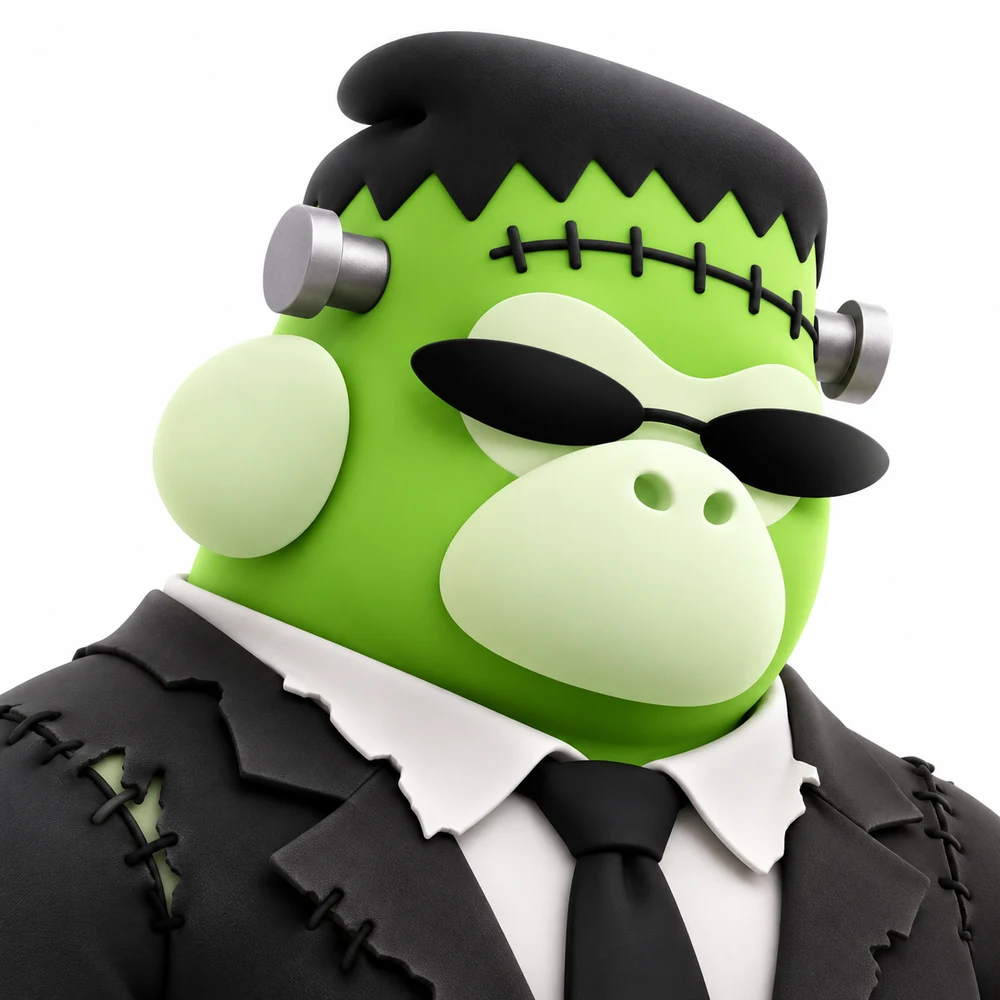
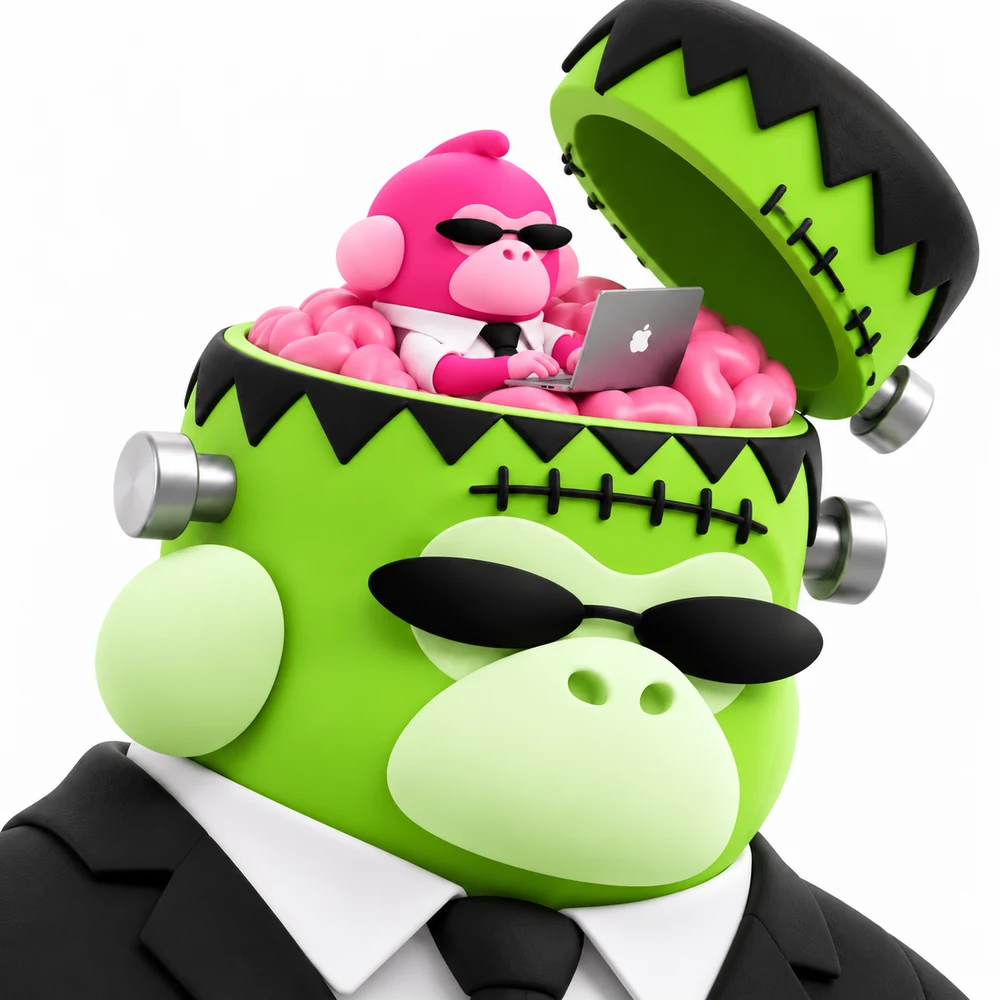
Frankenstein: new mascot image, remove tint
Claude-Session: https://claude.ai/code/session_011twCvYJ4NH4k7nHz3phw9g

diff --git a/dist/af/index.html b/dist/af/index.html
@@ -27,7 +27,7 @@
   --img-c-build:url(/assets/c-build.webp?v=ac599c71);
   --img-c-booking:url(/assets/c-booking.webp?v=c02704ef);
   --img-c-seo:url(/assets/c-seo.webp?v=a87c5bff);
-  --img-c-frank:url(/assets/c-frank.webp?v=5af98d67);
+  --img-c-frank:url(/assets/c-frank.webp?v=35705922);
   --img-roborab:url(/assets/roborab.webp?v=c179bf15);
   --img-sofa:url(/assets/sofa.webp?v=66794370);
   --img-appicon:url(/assets/appicon.webp?v=915b7f70);
@@ -269,7 +269,7 @@ html:not([lang=ru]) .word{aspect-ratio:1001 / 512;background-image:var(--img-rob
 #build{--acc:#fcc118;--accfg:#fff;--mimg:var(--img-c-build)}
 #booking{--acc:#393939;--accfg:#fff;--mimg:var(--img-c-booking)}
 #seo{--acc:#fa3c8a;--accfg:#fff;--mimg:var(--img-c-seo)}
-#frank{--acc:#7cc62b;--accfg:#fff;--mimg:var(--img-c-frank);background:#eaf6da}
+#frank{--acc:#7cc62b;--accfg:#fff;--mimg:var(--img-c-frank)}
 
 .faq{margin:var(--S) auto 0;padding:0 max(var(--m),env(safe-area-inset-left,0px));max-width:1760px}
 .faq h2{margin:0;text-align:center;font:800 clamp(30px,4.6vw,72px)/1 var(--f-display);letter-spacing:-.035em;text-wrap:balance}

diff --git a/dist/ar/index.html b/dist/ar/index.html
@@ -27,7 +27,7 @@
   --img-c-build:url(/assets/c-build.webp?v=ac599c71);
   --img-c-booking:url(/assets/c-booking.webp?v=c02704ef);
   --img-c-seo:url(/assets/c-seo.webp?v=a87c5bff);
-  --img-c-frank:url(/assets/c-frank.webp?v=5af98d67);
+  --img-c-frank:url(/assets/c-frank.webp?v=35705922);
   --img-roborab:url(/assets/roborab.webp?v=c179bf15);
   --img-sofa:url(/assets/sofa.webp?v=66794370);
   --img-appicon:url(/assets/appicon.webp?v=915b7f70);
@@ -269,7 +269,7 @@ html:not([lang=ru]) .word{aspect-ratio:1001 / 512;background-image:var(--img-rob
 #build{--acc:#fcc118;--accfg:#fff;--mimg:var(--img-c-build)}
 #booking{--acc:#393939;--accfg:#fff;--mimg:var(--img-c-booking)}
 #seo{--acc:#fa3c8a;--accfg:#fff;--mimg:var(--img-c-seo)}
-#frank{--acc:#7cc62b;--accfg:#fff;--mimg:var(--img-c-frank);background:#eaf6da}
+#frank{--acc:#7cc62b;--accfg:#fff;--mimg:var(--img-c-frank)}
 
 .faq{margin:var(--S) auto 0;padding:0 max(var(--m),env(safe-area-inset-left,0px));max-width:1760px}
 .faq h2{margin:0;text-align:center;font:800 clamp(30px,4.6vw,72px)/1 var(--f-display);letter-spacing:-.035em;text-wrap:balance}

diff --git a/dist/az/index.html b/dist/az/index.html
@@ -27,7 +27,7 @@
   --img-c-build:url(/assets/c-build.webp?v=ac599c71);
   --img-c-booking:url(/assets/c-booking.webp?v=c02704ef);
   --img-c-seo:url(/assets/c-seo.webp?v=a87c5bff);
-  --img-c-frank:url(/assets/c-frank.webp?v=5af98d67);
+  --img-c-frank:url(/assets/c-frank.webp?v=35705922);
   --img-roborab:url(/assets/roborab.webp?v=c179bf15);
   --img-sofa:url(/assets/sofa.webp?v=66794370);
   --img-appicon:url(/assets/appicon.webp?v=915b7f70);
@@ -269,7 +269,7 @@ html:not([lang=ru]) .word{aspect-ratio:1001 / 512;background-image:var(--img-rob
 #build{--acc:#fcc118;--accfg:#fff;--mimg:var(--img-c-build)}
 #booking{--acc:#393939;--accfg:#fff;--mimg:var(--img-c-booking)}
 #seo{--acc:#fa3c8a;--accfg:#fff;--mimg:var(--img-c-seo)}
-#frank{--acc:#7cc62b;--accfg:#fff;--mimg:var(--img-c-frank);background:#eaf6da}
+#frank{--acc:#7cc62b;--accfg:#fff;--mimg:var(--img-c-frank)}
 
 .faq{margin:var(--S) auto 0;padding:0 max(var(--m),env(safe-area-inset-left,0px));max-width:1760px}
 .faq h2{margin:0;text-align:center;font:800 clamp(30px,4.6vw,72px)/1 var(--f-display);letter-spacing:-.035em;text-wrap:balance}

diff --git a/dist/be/index.html b/dist/be/index.html
@@ -27,7 +27,7 @@
   --img-c-build:url(/assets/c-build.webp?v=ac599c71);
   --img-c-booking:url(/assets/c-booking.webp?v=c02704ef);
   --img-c-seo:url(/assets/c-seo.webp?v=a87c5bff);
-  --img-c-frank:url(/assets/c-frank.webp?v=5af98d67);
+  --img-c-frank:url(/assets/c-frank.webp?v=35705922);
   --img-roborab:url(/assets/roborab.webp?v=c179bf15);
   --img-sofa:url(/assets/sofa.webp?v=66794370);
   --img-appicon:url(/assets/appicon.webp?v=915b7f70);
@@ -269,7 +269,7 @@ html:not([lang=ru]) .word{aspect-ratio:1001 / 512;background-image:var(--img-rob
 #build{--acc:#fcc118;--accfg:#fff;--mimg:var(--img-c-build)}
 #booking{--acc:#393939;--accfg:#fff;--mimg:var(--img-c-booking)}
 #seo{--acc:#fa3c8a;--accfg:#fff;--mimg:var(--img-c-seo)}
-#frank{--acc:#7cc62b;--accfg:#fff;--mimg:var(--img-c-frank);background:#eaf6da}
+#frank{--acc:#7cc62b;--accfg:#fff;--mimg:var(--img-c-frank)}
 
 .faq{margin:var(--S) auto 0;padding:0 max(var(--m),env(safe-area-inset-left,0px));max-width:1760px}
 .faq h2{margin:0;text-align:center;font:800 clamp(30px,4.6vw,72px)/1 var(--f-display);letter-spacing:-.035em;text-wrap:balance}

diff --git a/dist/bg/index.html b/dist/bg/index.html
@@ -27,7 +27,7 @@
   --img-c-build:url(/assets/c-build.webp?v=ac599c71);
   --img-c-booking:url(/assets/c-booking.webp?v=c02704ef);
   --img-c-seo:url(/assets/c-seo.webp?v=a87c5bff);
-  --img-c-frank:url(/assets/c-frank.webp?v=5af98d67);
+  --img-c-frank:url(/assets/c-frank.webp?v=35705922);
   --img-roborab:url(/assets/roborab.webp?v=c179bf15);
   --img-sofa:url(/assets/sofa.webp?v=66794370);
   --img-appicon:url(/assets/appicon.webp?v=915b7f70);
@@ -269,7 +269,7 @@ html:not([lang=ru]) .word{aspect-ratio:1001 / 512;background-image:var(--img-rob
 #build{--acc:#fcc118;--accfg:#fff;--mimg:var(--img-c-build)}
 #booking{--acc:#393939;--accfg:#fff;--mimg:var(--img-c-booking)}
 #seo{--acc:#fa3c8a;--accfg:#fff;--mimg:var(--img-c-seo)}
-#frank{--acc:#7cc62b;--accfg:#fff;--mimg:var(--img-c-frank);background:#eaf6da}
+#frank{--acc:#7cc62b;--accfg:#fff;--mimg:var(--img-c-frank)}
 
 .faq{margin:var(--S) auto 0;padding:0 max(var(--m),env(safe-area-inset-left,0px));max-width:1760px}
 .faq h2{margin:0;text-align:center;font:800 clamp(30px,4.6vw,72px)/1 var(--f-display);letter-spacing:-.035em;text-wrap:balance}

diff --git a/dist/bn/index.html b/dist/bn/index.html
@@ -27,7 +27,7 @@
   --img-c-build:url(/assets/c-build.webp?v=ac599c71);
   --img-c-booking:url(/assets/c-booking.webp?v=c02704ef);
   --img-c-seo:url(/assets/c-seo.webp?v=a87c5bff);
-  --img-c-frank:url(/assets/c-frank.webp?v=5af98d67);
+  --img-c-frank:url(/assets/c-frank.webp?v=35705922);
   --img-roborab:url(/assets/roborab.webp?v=c179bf15);
   --img-sofa:url(/assets/sofa.webp?v=66794370);
   --img-appicon:url(/assets/appicon.webp?v=915b7f70);
@@ -269,7 +269,7 @@ html:not([lang=ru]) .word{aspect-ratio:1001 / 512;background-image:var(--img-rob
 #build{--acc:#fcc118;--accfg:#fff;--mimg:var(--img-c-build)}
 #booking{--acc:#393939;--accfg:#fff;--mimg:var(--img-c-booking)}
 #seo{--acc:#fa3c8a;--accfg:#fff;--mimg:var(--img-c-seo)}
-#frank{--acc:#7cc62b;--accfg:#fff;--mimg:var(--img-c-frank);background:#eaf6da}
+#frank{--acc:#7cc62b;--accfg:#fff;--mimg:var(--img-c-frank)}
 
 .faq{margin:var(--S) auto 0;padding:0 max(var(--m),env(safe-area-inset-left,0px));max-width:1760px}
 .faq h2{margin:0;text-align:center;font:800 clamp(30px,4.6vw,72px)/1 var(--f-display);letter-spacing:-.035em;text-wrap:balance}

diff --git a/dist/ca/index.html b/dist/ca/index.html
@@ -27,7 +27,7 @@
   --img-c-build:url(/assets/c-build.webp?v=ac599c71);
   --img-c-booking:url(/assets/c-booking.webp?v=c02704ef);
   --img-c-seo:url(/assets/c-seo.webp?v=a87c5bff);
-  --img-c-frank:url(/assets/c-frank.webp?v=5af98d67);
+  --img-c-frank:url(/assets/c-frank.webp?v=35705922);
   --img-roborab:url(/assets/roborab.webp?v=c179bf15);
   --img-sofa:url(/assets/sofa.webp?v=66794370);
   --img-appicon:url(/assets/appicon.webp?v=915b7f70);
@@ -269,7 +269,7 @@ html:not([lang=ru]) .word{aspect-ratio:1001 / 512;background-image:var(--img-rob
 #build{--acc:#fcc118;--accfg:#fff;--mimg:var(--img-c-build)}
 #booking{--acc:#393939;--accfg:#fff;--mimg:var(--img-c-booking)}
 #seo{--acc:#fa3c8a;--accfg:#fff;--mimg:var(--img-c-seo)}
-#frank{--acc:#7cc62b;--accfg:#fff;--mimg:var(--img-c-frank);background:#eaf6da}
+#frank{--acc:#7cc62b;--accfg:#fff;--mimg:var(--img-c-frank)}
 
 .faq{margin:var(--S) auto 0;padding:0 max(var(--m),env(safe-area-inset-left,0px));max-width:1760px}
 .faq h2{margin:0;text-align:center;font:800 clamp(30px,4.6vw,72px)/1 var(--f-display);letter-spacing:-.035em;text-wrap:balance}

diff --git a/dist/cs/index.html b/dist/cs/index.html
@@ -27,7 +27,7 @@
   --img-c-build:url(/assets/c-build.webp?v=ac599c71);
   --img-c-booking:url(/assets/c-booking.webp?v=c02704ef);
   --img-c-seo:url(/assets/c-seo.webp?v=a87c5bff);
-  --img-c-frank:url(/assets/c-frank.webp?v=5af98d67);
+  --img-c-frank:url(/assets/c-frank.webp?v=35705922);
   --img-roborab:url(/assets/roborab.webp?v=c179bf15);
   --img-sofa:url(/assets/sofa.webp?v=66794370);
   --img-appicon:url(/assets/appicon.webp?v=915b7f70);
@@ -269,7 +269,7 @@ html:not([lang=ru]) .word{aspect-ratio:1001 / 512;background-image:var(--img-rob
 #build{--acc:#fcc118;--accfg:#fff;--mimg:var(--img-c-build)}
 #booking{--acc:#393939;--accfg:#fff;--mimg:var(--img-c-booking)}
 #seo{--acc:#fa3c8a;--accfg:#fff;--mimg:var(--img-c-seo)}
-#frank{--acc:#7cc62b;--accfg:#fff;--mimg:var(--img-c-frank);background:#eaf6da}
+#frank{--acc:#7cc62b;--accfg:#fff;--mimg:var(--img-c-frank)}
 
 .faq{margin:var(--S) auto 0;padding:0 max(var(--m),env(safe-area-inset-left,0px));max-width:1760px}
 .faq h2{margin:0;text-align:center;font:800 clamp(30px,4.6vw,72px)/1 var(--f-display);letter-spacing:-.035em;text-wrap:balance}

diff --git a/dist/da/index.html b/dist/da/index.html
@@ -27,7 +27,7 @@
   --img-c-build:url(/assets/c-build.webp?v=ac599c71);
   --img-c-booking:url(/assets/c-booking.webp?v=c02704ef);
   --img-c-seo:url(/assets/c-seo.webp?v=a87c5bff);
-  --img-c-frank:url(/assets/c-frank.webp?v=5af98d67);
+  --img-c-frank:url(/assets/c-frank.webp?v=35705922);
   --img-roborab:url(/assets/roborab.webp?v=c179bf15);
   --img-sofa:url(/assets/sofa.webp?v=66794370);
   --img-appicon:url(/assets/appicon.webp?v=915b7f70);
@@ -269,7 +269,7 @@ html:not([lang=ru]) .word{aspect-ratio:1001 / 512;background-image:var(--img-rob
 #build{--acc:#fcc118;--accfg:#fff;--mimg:var(--img-c-build)}
 #booking{--acc:#393939;--accfg:#fff;--mimg:var(--img-c-booking)}
 #seo{--acc:#fa3c8a;--accfg:#fff;--mimg:var(--img-c-seo)}
-#frank{--acc:#7cc62b;--accfg:#fff;--mimg:var(--img-c-frank);background:#eaf6da}
+#frank{--acc:#7cc62b;--accfg:#fff;--mimg:var(--img-c-frank)}
 
 .faq{margin:var(--S) auto 0;padding:0 max(var(--m),env(safe-area-inset-left,0px));max-width:1760px}
 .faq h2{margin:0;text-align:center;font:800 clamp(30px,4.6vw,72px)/1 var(--f-display);letter-spacing:-.035em;text-wrap:balance}

diff --git a/dist/de/index.html b/dist/de/index.html
@@ -27,7 +27,7 @@
   --img-c-build:url(/assets/c-build.webp?v=ac599c71);
   --img-c-booking:url(/assets/c-booking.webp?v=c02704ef);
   --img-c-seo:url(/assets/c-seo.webp?v=a87c5bff);
-  --img-c-frank:url(/assets/c-frank.webp?v=5af98d67);
+  --img-c-frank:url(/assets/c-frank.webp?v=35705922);
   --img-roborab:url(/assets/roborab.webp?v=c179bf15);
   --img-sofa:url(/assets/sofa.webp?v=66794370);
   --img-appicon:url(/assets/appicon.webp?v=915b7f70);
@@ -269,7 +269,7 @@ html:not([lang=ru]) .word{aspect-ratio:1001 / 512;background-image:var(--img-rob
 #build{--acc:#fcc118;--accfg:#fff;--mimg:var(--img-c-build)}
 #booking{--acc:#393939;--accfg:#fff;--mimg:var(--img-c-booking)}
 #seo{--acc:#fa3c8a;--accfg:#fff;--mimg:var(--img-c-seo)}
-#frank{--acc:#7cc62b;--accfg:#fff;--mimg:var(--img-c-frank);background:#eaf6da}
+#frank{--acc:#7cc62b;--accfg:#fff;--mimg:var(--img-c-frank)}
 
 .faq{margin:var(--S) auto 0;padding:0 max(var(--m),env(safe-area-inset-left,0px));max-width:1760px}
 .faq h2{margin:0;text-align:center;font:800 clamp(30px,4.6vw,72px)/1 var(--f-display);letter-spacing:-.035em;text-wrap:balance}

diff --git a/dist/el/index.html b/dist/el/index.html
@@ -27,7 +27,7 @@
   --img-c-build:url(/assets/c-build.webp?v=ac599c71);
   --img-c-booking:url(/assets/c-booking.webp?v=c02704ef);
   --img-c-seo:url(/assets/c-seo.webp?v=a87c5bff);
-  --img-c-frank:url(/assets/c-frank.webp?v=5af98d67);
+  --img-c-frank:url(/assets/c-frank.webp?v=35705922);
   --img-roborab:url(/assets/roborab.webp?v=c179bf15);
   --img-sofa:url(/assets/sofa.webp?v=66794370);
   --img-appicon:url(/assets/appicon.webp?v=915b7f70);
@@ -269,7 +269,7 @@ html:not([lang=ru]) .word{aspect-ratio:1001 / 512;background-image:var(--img-rob
 #build{--acc:#fcc118;--accfg:#fff;--mimg:var(--img-c-build)}
 #booking{--acc:#393939;--accfg:#fff;--mimg:var(--img-c-booking)}
 #seo{--acc:#fa3c8a;--accfg:#fff;--mimg:var(--img-c-seo)}
-#frank{--acc:#7cc62b;--accfg:#fff;--mimg:var(--img-c-frank);background:#eaf6da}
+#frank{--acc:#7cc62b;--accfg:#fff;--mimg:var(--img-c-frank)}
 
 .faq{margin:var(--S) auto 0;padding:0 max(var(--m),env(safe-area-inset-left,0px));max-width:1760px}
 .faq h2{margin:0;text-align:center;font:800 clamp(30px,4.6vw,72px)/1 var(--f-display);letter-spacing:-.035em;text-wrap:balance}

diff --git a/dist/en-gb/index.html b/dist/en-gb/index.html
@@ -27,7 +27,7 @@
   --img-c-build:url(/assets/c-build.webp?v=ac599c71);
   --img-c-booking:url(/assets/c-booking.webp?v=c02704ef);
   --img-c-seo:url(/assets/c-seo.webp?v=a87c5bff);
-  --img-c-frank:url(/assets/c-frank.webp?v=5af98d67);
+  --img-c-frank:url(/assets/c-frank.webp?v=35705922);
   --img-roborab:url(/assets/roborab.webp?v=c179bf15);
   --img-sofa:url(/assets/sofa.webp?v=66794370);
   --img-appicon:url(/assets/appicon.webp?v=915b7f70);
@@ -269,7 +269,7 @@ html:not([lang=ru]) .word{aspect-ratio:1001 / 512;background-image:var(--img-rob
 #build{--acc:#fcc118;--accfg:#fff;--mimg:var(--img-c-build)}
 #booking{--acc:#393939;--accfg:#fff;--mimg:var(--img-c-booking)}
 #seo{--acc:#fa3c8a;--accfg:#fff;--mimg:var(--img-c-seo)}
-#frank{--acc:#7cc62b;--accfg:#fff;--mimg:var(--img-c-frank);background:#eaf6da}
+#frank{--acc:#7cc62b;--accfg:#fff;--mimg:var(--img-c-frank)}
 
 .faq{margin:var(--S) auto 0;padding:0 max(var(--m),env(safe-area-inset-left,0px));max-width:1760px}
 .faq h2{margin:0;text-align:center;font:800 clamp(30px,4.6vw,72px)/1 var(--f-display);letter-spacing:-.035em;text-wrap:balance}
